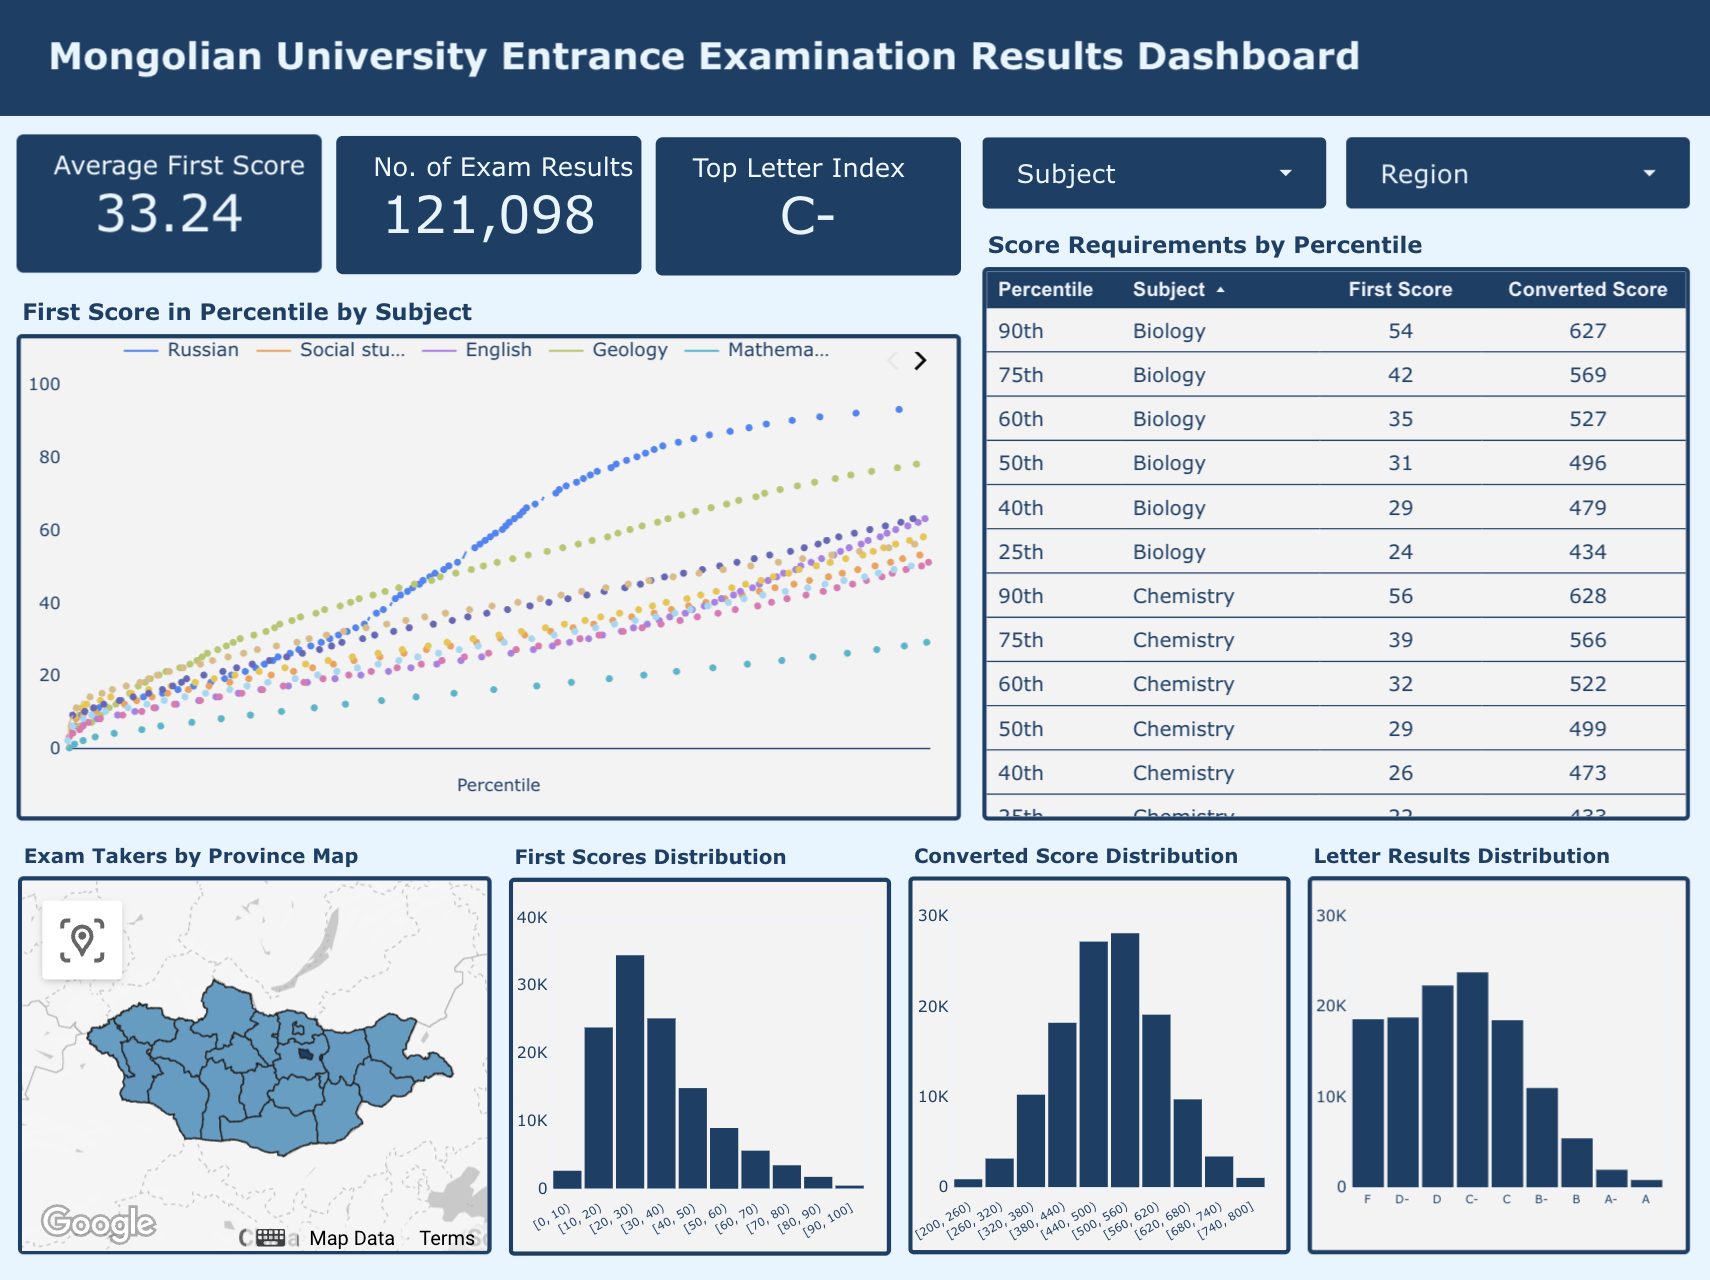
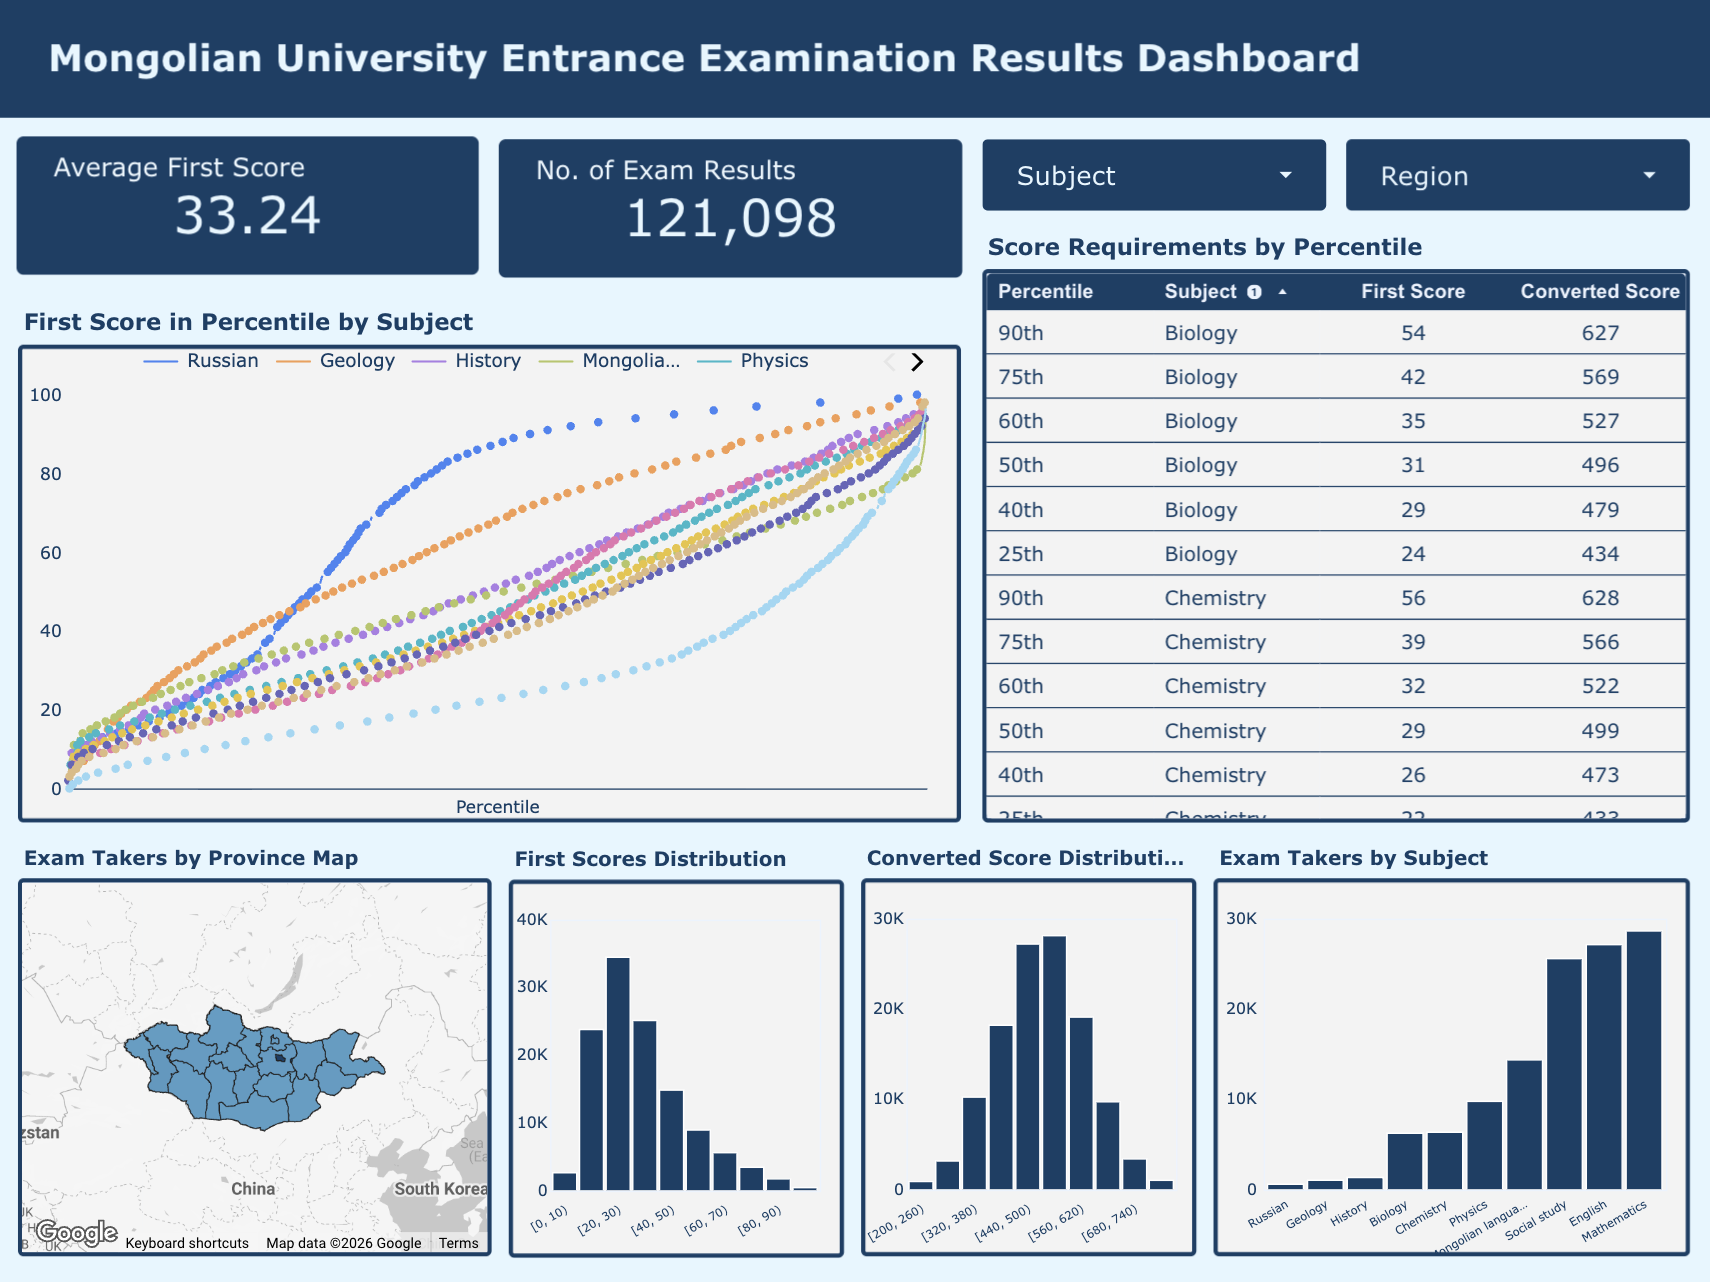
change letters into subject distribution

diff --git a/Streamlit/1_Dashboard.py b/Streamlit/1_Dashboard.py
@@ -191,26 +191,48 @@ with bar_col2:
 
 
 with bar_col3:
-    st.markdown("<h3 style='font-size:22px; color:#113f67;'><strong>Letter Index Distribution</strong></h3>", unsafe_allow_html=True)
-    letter_order = ['F','E','D-','D','D+','C-','C','C+','B-','B','B+','A-','A']
-    letter_df = (
-        filtered_df["Letterindex"]
+    st.markdown(
+        "<h3 style='font-size:22px; color:#113f67;'><strong>Subject Distribution</strong></h3>",
+        unsafe_allow_html=True
+    )
+
+    # Replace long subject name with abbreviation
+    filtered_df["Subject"] = filtered_df["Subject"].replace(
+        "Mongolian language studies",
+        "MLS"
+    )
+    # Count number of exam takers per subject
+    subject_df = (
+        filtered_df["Subject"]
         .value_counts()
-        .reindex(letter_order)
-        .dropna()
         .reset_index()
     )
-    letter_df.columns = ["Letter", "Count"]
 
-    fig3 = px.bar(letter_df, x="Letter", y="Count", color_discrete_sequence=["#113f67"])
+    subject_df.columns = ["Subject", "Count"]
+
+    # Create bar chart
+    fig3 = px.bar(
+        subject_df,
+        x="Subject",
+        y="Count",
+        color_discrete_sequence=["#113f67"]
+    )
+
     fig3.update_layout(
         margin={"t": 10},
         height=300,
         showlegend=False,
-        xaxis_title="Letter",
-        yaxis_title="Count",
+        xaxis_title="Subject",
+        yaxis_title="Number of Exam Takers",
         font=dict(family="Arial", color="#113f67"),
-        xaxis=dict(title_font=dict(size=14, color="#113f67"), tickfont=dict(size=10, color="#113f67")),
-        yaxis=dict(title_font=dict(size=14, color="#113f67"), tickfont=dict(size=10, color="#113f67"))
+        xaxis=dict(
+            title_font=dict(size=14, color="#113f67"),
+            tickfont=dict(size=10, color="#113f67")
+        ),
+        yaxis=dict(
+            title_font=dict(size=14, color="#113f67"),
+            tickfont=dict(size=10, color="#113f67")
+        )
     )
+
     st.plotly_chart(fig3, use_container_width=True)
